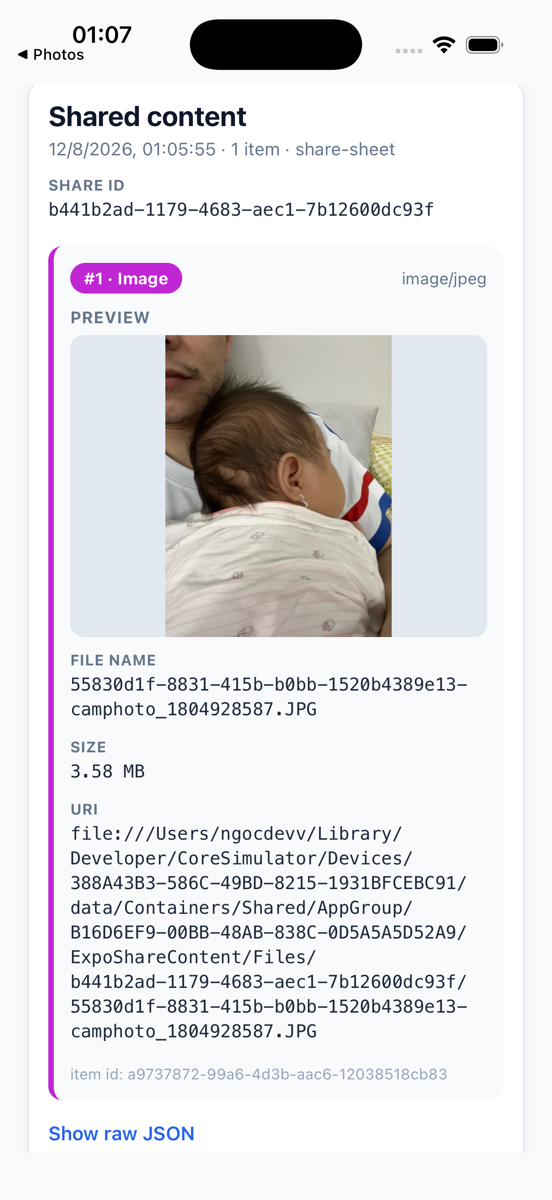
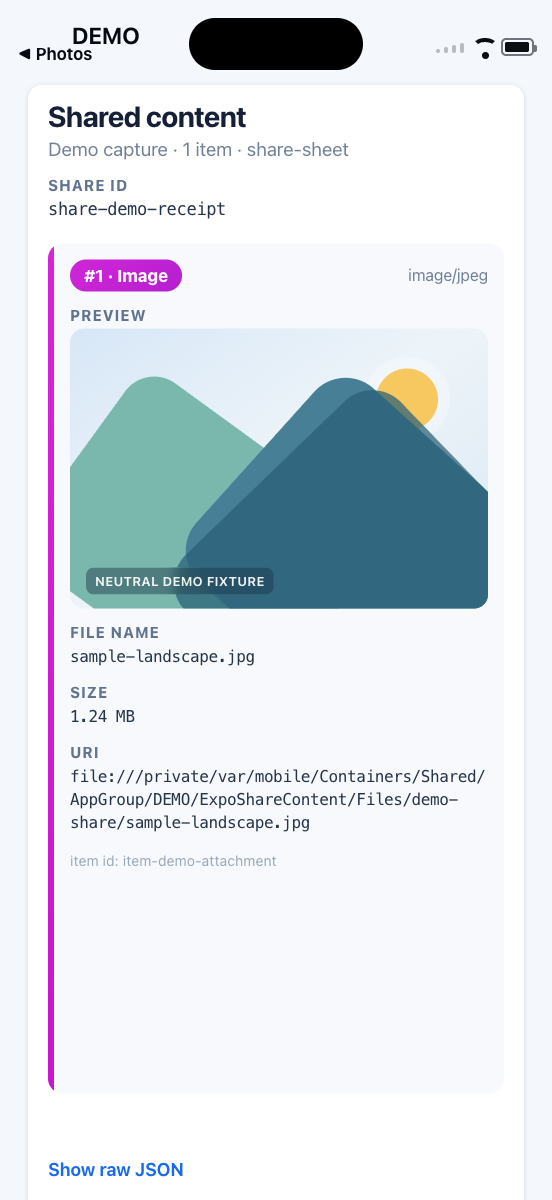
docs: align usage guidance with current behavior
Clarify queue delivery and cleanup semantics, iOS configuration
constraints, native test coverage, and npm publishing requirements.

diff --git a/example/App.tsx b/example/App.tsx
@@ -16,6 +16,8 @@ import {
   View,
 } from 'react-native';
 
+import { removeSharesById } from './share-state';
+
 function formatTimestamp(timestamp: number): string {
   try {
     return new Date(timestamp).toLocaleString();
@@ -202,7 +204,7 @@ function ShareCard({
         </Text>
       ) : null}
 
-      <Button title="Acknowledge" onPress={() => onAcknowledge(share.id)} />
+      <Button title="Acknowledge & release" onPress={() => onAcknowledge(share.id)} />
     </View>
   );
 }
@@ -224,6 +226,7 @@ export default function App() {
   const acknowledge = useCallback(async (shareId: string) => {
     try {
       await ExpoShareContent.clearPendingSharesAsync([shareId]);
+      await ExpoShareContent.releaseSharedFilesAsync([shareId]);
       setShares((current) => current.filter((share) => share.id !== shareId));
       setError(null);
     } catch (cause) {
@@ -270,12 +273,16 @@ export default function App() {
         <View style={styles.actions}>
           <Button title="Refresh queue" onPress={() => void refresh()} />
           <Button
-            title="Clear queue"
+            title="Clear listed & release"
             color="#b42318"
             onPress={async () => {
               try {
-                await ExpoShareContent.clearPendingSharesAsync();
-                setShares([]);
+                const shareIds = shares.map((share) => share.id);
+                if (shareIds.length > 0) {
+                  await ExpoShareContent.clearPendingSharesAsync(shareIds);
+                  await ExpoShareContent.releaseSharedFilesAsync(shareIds);
+                }
+                setShares((current) => removeSharesById(current, shareIds));
                 setError(null);
               } catch (cause) {
                 setError(cause instanceof Error ? cause.message : String(cause));

diff --git a/docs/src/pages/index.tsx b/docs/src/pages/index.tsx
@@ -203,7 +203,7 @@ function ShareFlow() {
           <img
             className={styles.phoneShot}
             src="img/demo-share-received.png"
-            alt="Real Expo Share Content example: an image shared from Photos appears with preview, filename, size, and App Group file URI"
+            alt="Privacy-safe Expo Share Content demo showing an image payload with preview, filename, size, and App Group file URI"
             width={552}
             height={1200}
             decoding="async"

diff --git a/example/share-state.test.ts b/example/share-state.test.ts
@@ -1,0 +1,13 @@
+/// <reference types="jest" />
+
+import { removeSharesById } from './share-state';
+
+describe('removeSharesById', () => {
+  it('preserves shares that arrive after the clear snapshot is captured', () => {
+    const listed = [{ id: 'first' }, { id: 'second' }];
+    const incoming = { id: 'incoming-during-clear' };
+    const current = [...listed, incoming];
+
+    expect(removeSharesById(current, listed.map((share) => share.id))).toEqual([incoming]);
+  });
+});

diff --git a/src/ExpoShareContent.types.ts b/src/ExpoShareContent.types.ts
@@ -8,7 +8,7 @@ export type SharedContentItem = {
   type: SharedContentType;
   mimeType: string | null;
   text?: string;
-  /** Durable local file URI copied into app-owned cache storage. */
+  /** Module-managed local file URI that outlives the source app's temporary permission. */
   uri?: string;
   fileName?: string;
   size?: number;

diff --git a/example/share-state.ts b/example/share-state.ts
@@ -1,0 +1,11 @@
+type ShareWithId = {
+  id: string;
+};
+
+export function removeSharesById<T extends ShareWithId>(
+  shares: readonly T[],
+  shareIds: readonly string[]
+): T[] {
+  const removedIds = new Set(shareIds);
+  return shares.filter((share) => !removedIds.has(share.id));
+}

diff --git a/README.md b/README.md
@@ -151,7 +151,7 @@ Returns the oldest pending payload without removing it. This is a convenience wr
 - Pass IDs to acknowledge only those payloads.
 - Omit the argument to clear the whole queue.
 
-Clearing removes the queue record immediately but deliberately does not delete attachment files. Call `releaseSharedFilesAsync` after copying required files into your own documents/library directory. Unreleased files for acknowledged receipts remain eligible for automatic cleanup seven days after receipt; files for still-pending receipts are protected.
+Clearing removes the queue record immediately but deliberately does not delete attachment files. Call `releaseSharedFilesAsync` after copying required files into your own documents/library directory. Unreleased files for acknowledged receipts become eligible for lazy cleanup seven days after receipt when a later queue operation runs; files for still-pending receipts are protected.
 
 ### `releaseSharedFilesAsync(shareIds: readonly string[]): Promise<void>`
 
@@ -159,11 +159,13 @@ Deletes module-managed attachment directories for already-acknowledged receipts.
 
 ### `addShareListener(listener): ShareSubscription`
 
-Subscribes to warm-start shares. Call `.remove()` on the returned subscription.
+Subscribes to native share events. Call `.remove()` on the returned subscription.
+
+Delivery differs slightly by platform: iOS emits pending queue records that have not yet been emitted when observation starts and whenever the app becomes active; Android buffers cold-start intents into the pending queue without emitting them as live events. On both platforms, register the listener early **and** call `getPendingSharesAsync()` for cold-start recovery.
 
 ### `addShareErrorListener(listener): ShareSubscription`
 
-Subscribes to native parsing, file-copy, App Group, and queue errors.
+Subscribes to errors delivered by the host native module. Android reports intent parsing, file-copy, and queue failures. On iOS, the host reports App Group and queue-read failures; errors that occur inside the separate Share Extension before a queue record is committed are shown in the extension UI and are not forwarded to JavaScript.
 
 ### `dedupeShares(payloads): SharePayload[]`
 
@@ -203,7 +205,7 @@ A single payload represents one share operation, so an Android `SEND_MULTIPLE` i
 
 - Text and URL items use `text`.
 - Binary items use a local `file://` `uri` and may include `fileName`, `mimeType`, and `size`.
-- Managed URIs are isolated from the source app's temporary permission. Pending files are protected; released files use a seven-day retention window from receipt.
+- Managed URIs are isolated from the source app's temporary permission. Pending files are protected. `releaseSharedFilesAsync` deletes acknowledged receipt directories immediately; acknowledged but unreleased directories become eligible for lazy cleanup seven days after receipt, triggered by later queue operations.
 
 ## Config plugin options
 
@@ -211,16 +213,23 @@ A single payload represents one share operation, so an Android `SEND_MULTIPLE` i
 | --- | --- | --- |
 | `androidIntentFilters` | text, image, video, audio, application wildcards | MIME types accepted for `ACTION_SEND` |
 | `androidMultiIntentFilters` | image, video, audio, application wildcards | MIME types accepted for `ACTION_SEND_MULTIPLE` |
-| `iosActivationRules` | text, URL, up to 10 images/movies/files | Supported iOS activation-rule dictionary or predicate string; `TRUEPREDICATE` is rejected for App Store safety |
+| `iosActivationRules` | text, URL, up to 10 images/movies/files | Supported iOS activation-rule dictionary or predicate string; only the keys listed below are accepted, and `TRUEPREDICATE` is rejected for App Store safety |
 | `iosAppGroupIdentifier` | `group.<bundleIdentifier>` | Shared container used by app and extension |
-| `iosShareExtensionName` | `ShareExtension` | Xcode target and display name |
-| `iosShareExtensionBundleIdentifier` | `<bundleIdentifier>.share` | Extension bundle ID |
+| `iosShareExtensionName` | `ShareExtension` | Share-sheet display name; the Xcode/EAS target keeps only ASCII letters and digits and must not be empty |
+| `iosShareExtensionBundleIdentifier` | `<bundleIdentifier>.share` | Extension bundle ID; must differ from and start with `<ios.bundleIdentifier>.` |
 | `iosDeploymentTarget` | `16.4` | Extension deployment target; cannot be below 16.4 |
 | `iosOpenHostAppAfterShare` | `false` | Opt-in best-effort open of the host app after a successful share (UIApplication / responder-chain / `NSExtensionContext.open`). Not guaranteed by Apple |
 | `iosHostUrlScheme` | `expo.scheme` | URL scheme used when auto-open is enabled (`"myapp"` → `myapp://share?shareId=…`) |
 | `maxSharedItems` | `20` | Maximum item providers handled per share; must be `1...2147483647` |
 | `maxSharedFileSize` | `104857600` | Maximum bytes copied for one attachment (100 MiB); must be `1...2147483647` |
 | `maxSharedTotalSize` | `262144000` | Aggregate binary bytes copied for one share (250 MiB); must be at least `maxSharedFileSize` and at most `2147483647` |
+
+For dictionary-based `iosActivationRules`, the plugin accepts only these Apple keys:
+
+- Boolean: `NSExtensionActivationSupportsText`.
+- Positive integer: `NSExtensionActivationSupportsAttachmentsWithMaxCount`, `NSExtensionActivationSupportsAttachmentsWithMinCount`, `NSExtensionActivationSupportsFileWithMaxCount`, `NSExtensionActivationSupportsImageWithMaxCount`, `NSExtensionActivationSupportsMovieWithMaxCount`, `NSExtensionActivationSupportsWebPageWithMaxCount`, and `NSExtensionActivationSupportsWebURLWithMaxCount`.
+
+Dictionary rules must contain at least one supported key. Numeric activation-rule values cannot exceed `maxSharedItems`. Predicate strings must be non-empty and must not contain `TRUEPREDICATE`.
 
 Example with narrower Android filters and explicit Apple identifiers:
 
@@ -255,6 +264,8 @@ The plugin validates MIME syntax, positive limits, identifiers, and deployment t
 ### iOS
 
 - A main-app native module alone cannot appear in the iOS share sheet; the generated Share Extension is required.
+- `iosShareExtensionName` remains unchanged as the share-sheet display name, but its Xcode target, directory, product, and EAS `targetName` keep only ASCII letters and digits; the result must not be empty (`"Share to Example"` becomes `SharetoExample`).
+- A custom `iosShareExtensionBundleIdentifier` must be different from the host bundle ID and prefixed by `<ios.bundleIdentifier>.`, as required for an embedded app extension.
 - Binary/media attachments use `loadFileRepresentation` with 64 KiB streaming. Text/URL values use `loadDataRepresentation` and are rejected above the 256 KiB text cap before decoding.
 - By default the extension does **not** auto-open the host app. Queue delivery is independent of auto-open. If you set `iosOpenHostAppAfterShare: true`, the extension attempts a best-effort open chain and awaits it before `completeRequest`.
 - App Group and extension provisioning must exist for device/App Store builds. Simulator builds do not prove production signing is configured.
@@ -281,6 +292,8 @@ npm run build:plugin
 ```
 
 The `example/` app links the package through `file:..`. Its generated `ios/` and `android/` directories are disposable prebuild output.
+
+`npm test` covers the JavaScript wrapper and config plugin. Native queue-codec tests live under `android/src/test/` and `ios/Tests/`; run them through the generated example Android project or compile the Swift test harness when changing native queue behavior.
 
 ## License
 

diff --git a/docs/PRD.md b/docs/PRD.md
@@ -48,7 +48,7 @@ Each item has a stable ID and one normalized type:
 - `audio`
 - `file`
 
-Textual items expose `text`. Binary items expose an app-owned managed `file://` URI plus optional MIME type, filename, and byte size. Pending files are protected; released files are retained for up to seven days from receipt.
+Textual items expose `text`. Binary items expose a module-managed `file://` URI plus optional MIME type, filename, and byte size. Pending files are protected. Releasing an acknowledged receipt deletes its managed directory immediately; acknowledged but unreleased directories become eligible for lazy cleanup seven days after receipt when a later queue operation runs.
 
 ### 4.2 Delivery semantics
 
@@ -74,7 +74,7 @@ The event and pending APIs may surface the same stable ID. Consumers must make b
 5. The listener buffers the launch intent before the Expo Module exists.
 6. The module parses launch/new intents on a serial executor.
 7. Temporary `content://` streams are copied to app no-backup storage with byte limits.
-8. Payload JSON is stored in SharedPreferences and emitted to JavaScript for live shares.
+8. Payload JSON is persisted through an `AtomicFile` queue and emitted to JavaScript for live shares.
 
 ### 5.2 iOS
 
@@ -84,7 +84,7 @@ The event and pending APIs may surface the same stable ID. Consumers must make b
 4. The extension reads `NSExtensionItem`/`NSItemProvider` values serially.
 5. Attachments are copied into the App Group container.
 6. Each payload is atomically written as one JSON file under `ExpoShareContent/Queue`.
-7. The extension completes without using unsupported host-opening APIs; iOS delivery is queue-only.
+7. After the queue commit, the extension optionally attempts a best-effort host open when `iosOpenHostAppAfterShare` is enabled; queue delivery never depends on open success.
 8. The host Expo Module reads or removes queue files and emits pending records when observing begins or the app becomes active.
 
 ## 6. Config plugin requirements
@@ -108,7 +108,7 @@ The plugin must:
 - iOS writes must be atomic so the host cannot read partial JSON.
 - Android queue updates must be synchronized.
 - Text is limited to 256 KiB and each platform accepts at most 20 pending receipts.
-- Clearing removes the queue record; released attachment files are cleaned after the seven-day retention window.
+- Clearing removes the queue record without deleting attachments. Releasing an acknowledged receipt deletes its managed files immediately; acknowledged but unreleased files are eligible for lazy cleanup after seven days.
 - Attachment URIs must not depend on the source app retaining temporary permission.
 - Logs and payloads must not be sent off-device by the package.
 
@@ -140,6 +140,6 @@ The plugin must:
 - Android and iOS only; web is not supported.
 - Expo Go cannot include the module or extension.
 - App Group and extension signing are external Apple Developer/EAS concerns.
-- iOS uses queue-only continuation and does not foreground the host from the Share Extension.
+- iOS queue delivery is independent of foregrounding. Optional host auto-open is best-effort and is not guaranteed by Apple.
 - Source applications vary in MIME type, UTType, filename, and metadata quality.
-- Released attachment files are cleaned after seven days from receipt; the consuming app owns permanent retention.
+- Acknowledged but unreleased attachment files become eligible for lazy cleanup seven days after receipt; explicit release deletes immediately, and the consuming app owns permanent retention.

diff --git a/.github/NPM_PUBLISHING.md b/.github/NPM_PUBLISHING.md
@@ -3,9 +3,9 @@
 The workflow in `workflows/publish-npm.yml` publishes only after a pull request:
 
 1. targets `main`;
-2. has a current approval from an allowed npm approver;
+2. has a current approval from, or is merged by, an allowed npm approver;
 3. is merged;
-4. passes tests, lint, build, CommonJS verification, and generated-output checks; and
+4. passes Jest tests, lint, build, CommonJS verification, and generated-output checks; and
 5. contains a package version that does not already exist on npm.
 
 ## npm Trusted Publishing
@@ -17,7 +17,7 @@ The npm package connection is restricted to:
 
 ```text
 Provider: GitHub Actions
-Repository: ngocdevv/React-Native-Share-Content
+Repository: ngocdevv/expo-share-content
 Workflow: publish-npm.yml
 Allowed action: npm publish
 ```
